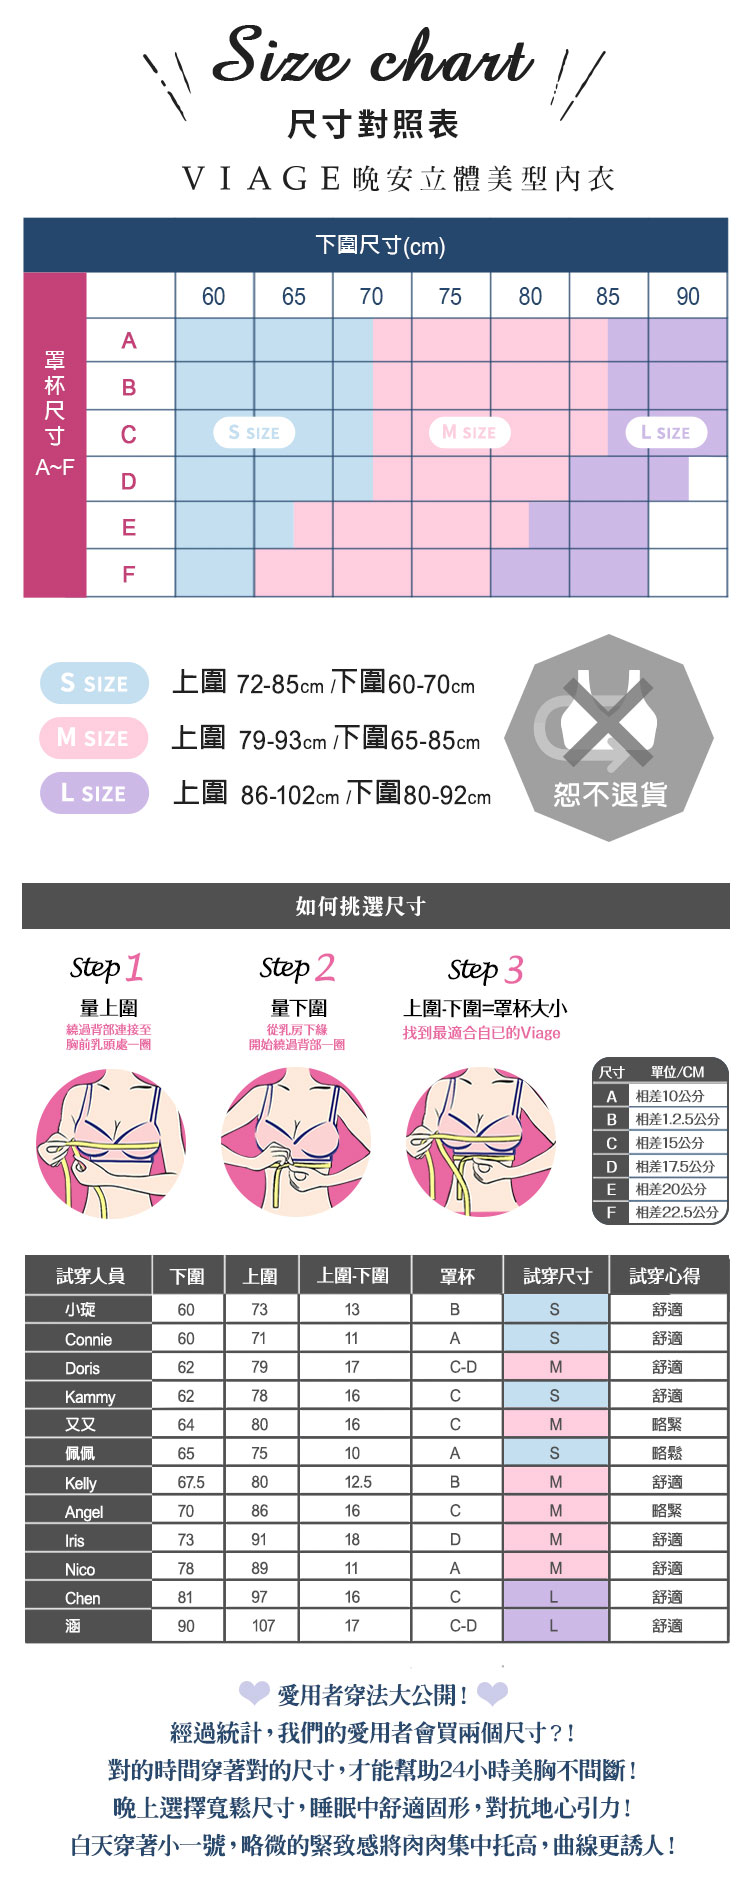
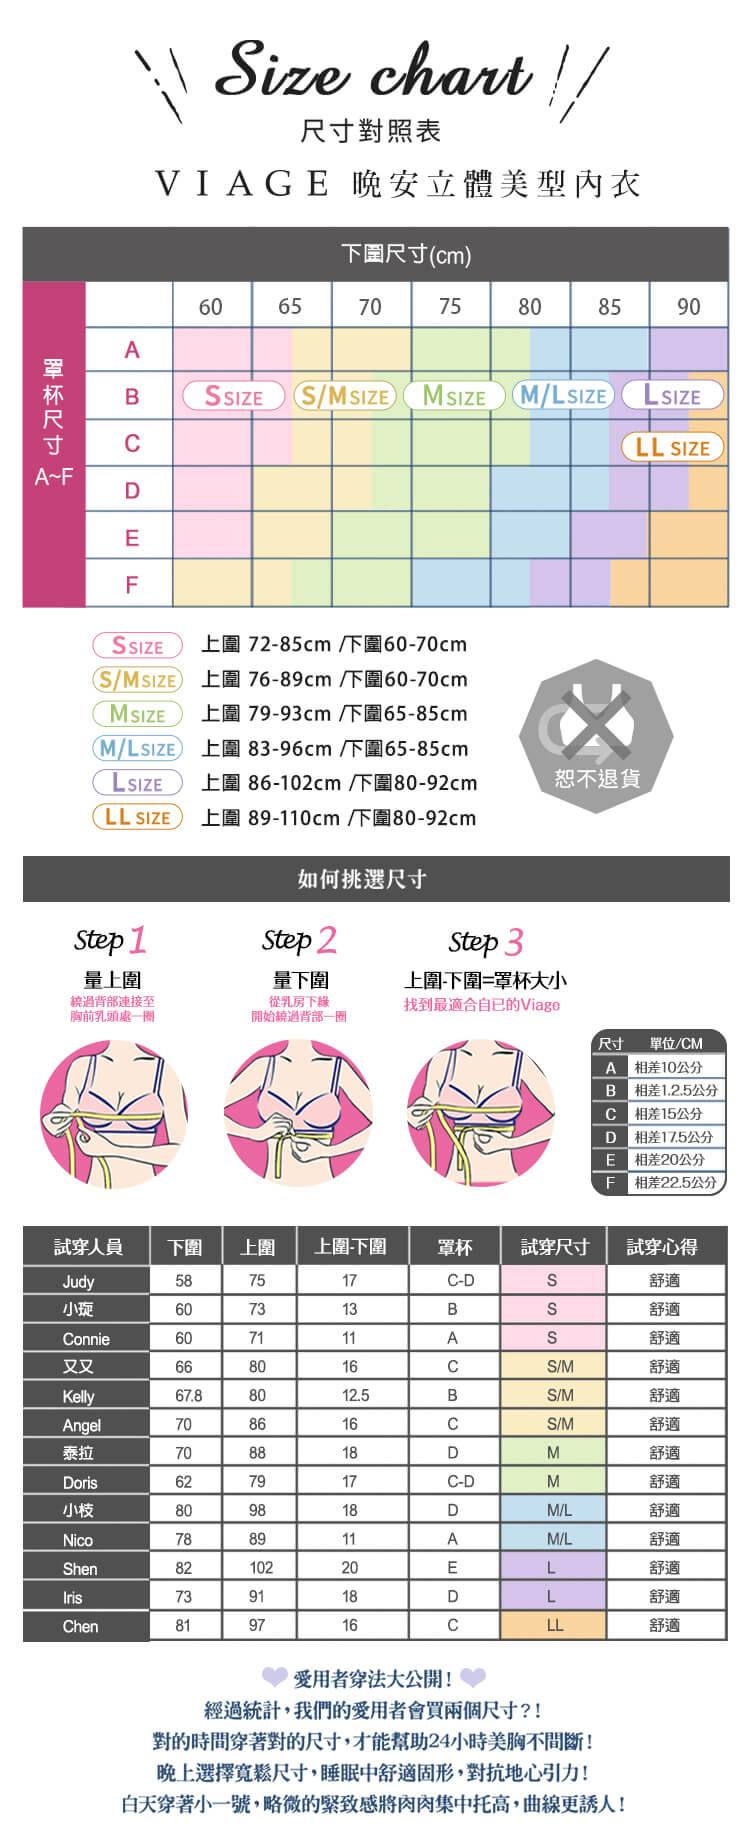
20191218_new size shopping cart big revision

diff --git a/acsJs/multi-product.setting.js b/acsJs/multi-product.setting.js
@@ -41,8 +41,11 @@ const CATEGORY_2_LIST = {
 	label: '請選擇尺寸',
 	list: [
 		{ label: 'S', value: 'S', label_short: 'S' },
+		{ label: 'S/M', value: 'SM', label_short: 'S/M' },
 		{ label: 'M', value: 'M', label_short: 'M' },
+		{ label: 'M/L', value: 'ML', label_short: 'M/L' },
 		{ label: 'L', value: 'L', label_short: 'L' },
+		{ label: 'LL', value: 'LL', label_short: 'LL' },
 	]
 };
 
@@ -54,20 +57,35 @@ const PRODUCT_CATEGORY_MAPPING = [
 	  	product_id : 'A',
 	  	product_code_mapping : [
 			{ product_code : '4560449970440'  , category2 : 'S' , category1 : 'BL' } , 
+			{ product_code : '4560449970600'  , category2 : 'SM' , category1 : 'BL' } , 
 			{ product_code : '4560449970457'  , category2 : 'M' , category1 : 'BL' } , 
+			{ product_code : '4560449970617'  , category2 : 'ML' , category1 : 'BL' } , 
 			{ product_code : '4560449970464'  , category2 : 'L' , category1 : 'BL' } , 
+			{ product_code : '4560449970624'  , category2 : 'LL' , category1 : 'BL' } , 
 			{ product_code : '4560449970327'  , category2 : 'S' , category1 : 'RD' } ,
+			{ product_code : '4560449970631'  , category2 : 'SM' , category1 : 'RD' } ,
 			{ product_code : '4560449970334'  , category2 : 'M' , category1 : 'RD' } , 
+			{ product_code : '4560449970648'  , category2 : 'ML' , category1 : 'RD' } ,
 			{ product_code : '4560449970341'  , category2 : 'L' , category1 : 'RD' } , 
+			{ product_code : '4560449970655'  , category2 : 'LL' , category1 : 'RD' } ,
 			{ product_code : '4560449970297'  , category2 : 'S' , category1 : 'LP' } ,
+			{ product_code : '4560449970662'  , category2 : 'SM' , category1 : 'LP' } , 
 			{ product_code : '4560449970396'  , category2 : 'M' , category1 : 'LP' } , 
+			{ product_code : '4560449970679'  , category2 : 'ML' , category1 : 'LP' } , 
 			{ product_code : '4560449970310'  , category2 : 'L' , category1 : 'LP' } , 
+			{ product_code : '4560449970686'  , category2 : 'LL' , category1 : 'LP' } , 
 			{ product_code : '4560449970266'  , category2 : 'S' , category1 : 'BK' } ,
+			{ product_code : '4560449970570'  , category2 : 'SM' , category1 : 'BK' } ,
 			{ product_code : '4560449970273'  , category2 : 'M' , category1 : 'BK' } ,
+			{ product_code : '4560449970587'  , category2 : 'ML' , category1 : 'BK' } ,
 			{ product_code : '4560449970280'  , category2 : 'L' , category1 : 'BK' } ,
+			{ product_code : '4560449970594'  , category2 : 'LL' , category1 : 'BK' } ,
 			{ product_code : '4560449970402'  , category2 : 'S' , category1 : 'SL' } ,
+			{ product_code : '4560449970693'  , category2 : 'SM' , category1 : 'SL' } ,
 			{ product_code : '4560449970419'  , category2 : 'M' , category1 : 'SL' } ,
+			{ product_code : '4560449970709'  , category2 : 'ML' , category1 : 'SL' } ,
 			{ product_code : '4560449970426'  , category2 : 'L' , category1 : 'SL' } ,
+			{ product_code : '4560449970716'  , category2 : 'LL' , category1 : 'SL' } ,
 	  ]
 	},
 	// 可複數

diff --git a/index.html b/index.html
@@ -112,9 +112,11 @@
                 <!-- 02_magzine -->
                 <section class="02_magzine">
                     <div class="PC">
+                        <img data-src="images/02_size.jpg" class="lozad d-flex mx-auto" max-width=100% alt="">
                         <img data-src="images/02_magzine.jpg" class="lozad" width=100% alt="">
                     </div>
                     <div class="mobile">
+                        <img data-src="images/SMP/02_size_SMP.jpg" class="lozad" width=100% alt="">
                         <img data-src="images/SMP/02_magzine_SMP.jpg" class="lozad" width=100% alt="">
                     </div>
                 </section>
@@ -457,7 +459,7 @@
                 <!-- 22_step3_size -->
                 <section class="22_step3_size">
                     <div class="PC">
-                        <img data-src="images/22_step3_size.png" class="lozad" width=100% alt="">
+                        <img data-src="images/22_step3_size.jpg" class="lozad" width=100% alt="">
                     </div>
                     <div class="mobile">
                         <img data-src="images/SMP/22_step3_size_SMP.jpg" class="lozad" width=100% alt="">
@@ -524,11 +526,11 @@
     </div>
     <!-- wrapper End -->
     <!-- 購物車廠商禁止刪除區塊 -->
-    <script src="acsJs/setting.js?ver=20190401"></script>
+    <script src="acsJs/setting.js?ver=20191218"></script>
     <script src="../CommonFiles/js/jquery-3.3.1.min.js"></script>
     <script src="../CommonFiles/js/app.min.js?ver=20190401"></script>
-    <script src="../CommonFiles/js/other.js?ver=20190418"></script>
-    <script src="acsJs/multi-product.setting.js?ver=20190118"></script>
+    <script src="../CommonFiles/js/other.js?ver=20191218"></script>
+    <script src="acsJs/multi-product.setting.js?ver=20191218"></script>
     <script src="../CommonFiles/plugin/multi-product/js/multi-product.init.js?ver=20190828"></script>
 
     <!-- Google Tag Manager※不要な場合、削除可 -->
